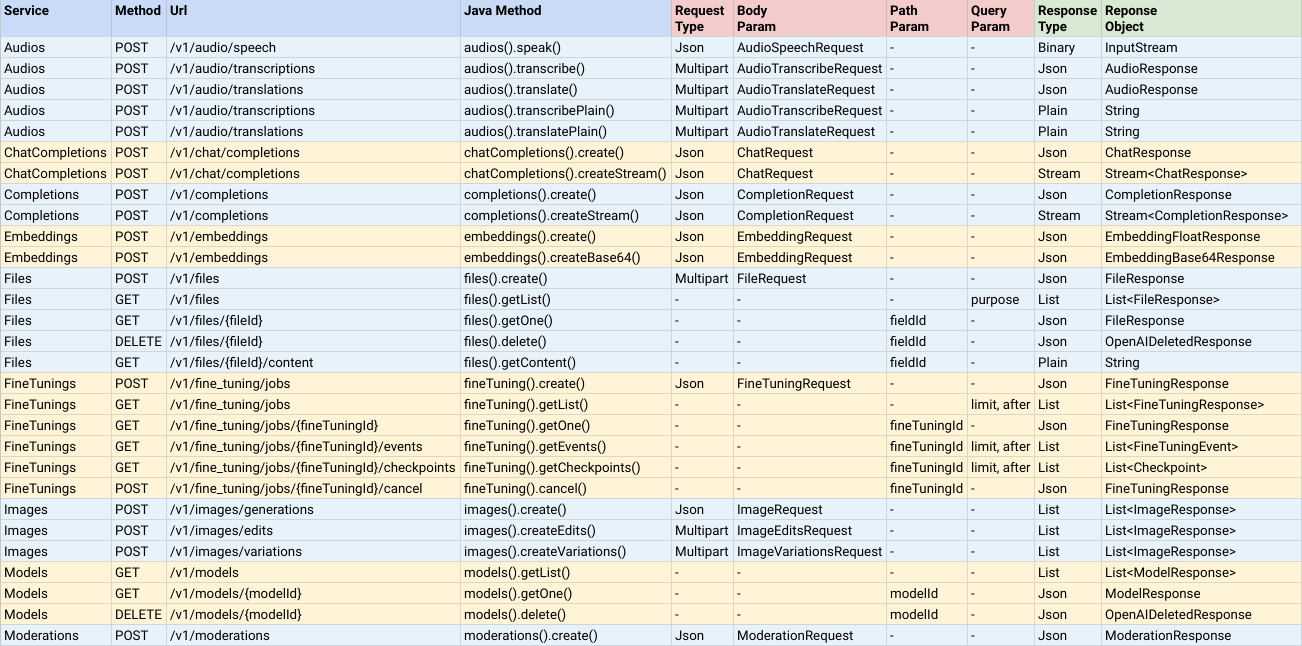
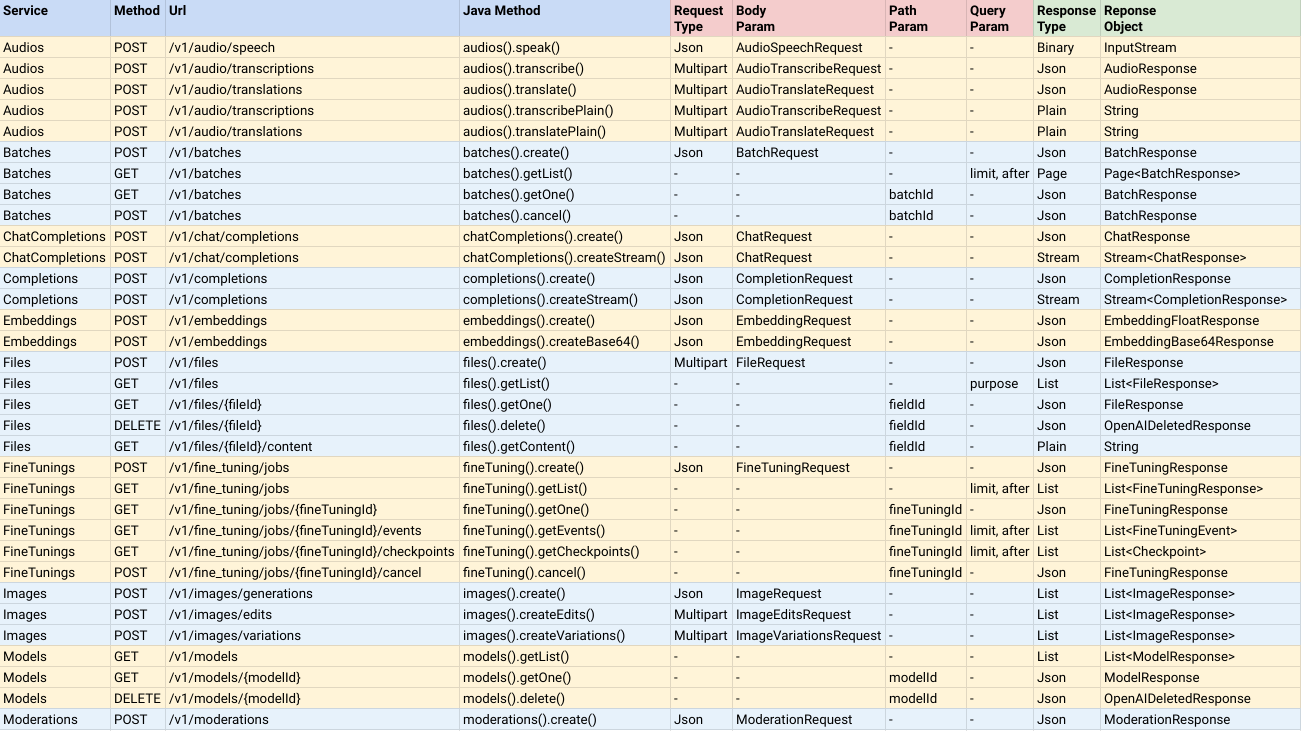
Update Readme

diff --git a/README.md b/README.md
@@ -9,9 +9,6 @@ A Java library to use the OpenAI Api in the simplest possible way.
 
 ### Table of Contents
 - [Description](#-description)
-- [Support for Additional OpenAI Providers](#-support-for-additional-openai-providers)
-  - [Azure OpenAI](#azure-openai)
-  - [Anyscale](#anyscale)
 - [Supported Services](#-supported-services)
 - [Installation](#-installation)
 - [Usage](#-usage)
@@ -23,57 +20,37 @@ A Java library to use the OpenAI Api in the simplest possible way.
     - [Chat Completion Service (streaming mode)](#chat-completion-service-streaming-mode)
     - [Chat Completion Service with Functions](#chat-completion-service-with-functions)
     - [Chat Completion Service with Vision](#chat-completion-service-with-vision)
+- [Support for Additional OpenAI Providers](#-support-for-additional-openai-providers)
+  - [Azure OpenAI](#azure-openai)
+  - [Anyscale](#anyscale)
 - [Run Examples](#-run-examples)
 - [Contributing](#-contributing)
 - [License](#-license)
+- [Show Us Your Love](#-show-us-your-love)
 
 
 ## 💡 Description
-Simple-OpenAI is a Java http client library for sending requests to and receiving responses from the [OpenAI API](https://platform.openai.com/docs/api-reference). It exposes a consistent interface across all the services, yet as simple as you can find in other languages like Python or NodeJs. It's a _community-maintained_ library.
+Simple-OpenAI is a Java http client library for sending requests to and receiving responses from the [OpenAI API](https://platform.openai.com/docs/api-reference). It exposes a consistent interface across all the services, yet as simple as you can find in other languages like Python or NodeJs. It's an unofficial library.
 
 Simple-OpenAI uses the [CleverClient](https://github.com/sashirestela/cleverclient) library for http communication, [Jackson](https://github.com/FasterXML/jackson) for Json parsing, and [Lombok](https://projectlombok.org/) to minimize boilerplate code, among others libraries.
 
 
-## ✴ Support for Additional OpenAI Providers
-Simple-OpenAI can be used with additional providers that are compatible with the OpenAI API. At this moment, there is support for the following additional providers:
-
-### Azure OpenAI
-[Azure OpenIA](https://learn.microsoft.com/en-us/azure/ai-services/openai/reference) is supported by Simple-OpenAI. We can use the class `SimpleOpenAIAzure`, which extends the class `BaseSimpleOpenAI`, to start using this provider. 
-```java
-var openai = SimpleOpenAIAzure.builder()
-    .apiKey(System.getenv("AZURE_OPENAI_API_KEY"))
-    .baseUrl(System.getenv("AZURE_OPENAI_BASE_URL"))   // Including resourceName and deploymentId
-    .apiVersion(System.getenv("AZURE_OPENAI_API_VERSION"))
-    //.httpClient(customHttpClient)   Optionally you could pass a custom HttpClient
-    .build();
-```
-Currently we are supporting the `openai.chatCompletionService()` service only.
-
-### Anyscale
-[Anyscale](https://www.anyscale.com/endpoints) is suported by Simple-OpenAI. We can use the class `SimpleOpenAIAnyscale`, which extends the class `BaseSimpleOpenAI`, to start using this provider.
-```java
-var openai = SimpleOpenAIAnyscale.builder()
-    .apiKey(System.getenv("ANYSCALE_API_KEY"))
-    //.baseUrl(customUrl)             Optionally you could pass a custom baseUrl
-    //.httpClient(customHttpClient)   Optionally you could pass a custom HttpClient
-    .build();
-```
-Currently we are supporting the `openai.chatCompletionService()` service only. It was tested with the model _Mistral_.
-
-
 ## ✅ Supported Services
+Simple-OpenAI seeks to stay up to date with the most recent changes in OpenAI. Currently, it supports all existing features until [April 16th, 2024](https://platform.openai.com/docs/changelog/apr-16th-2024) and will continue to update with future changes.
+
 Full support for all of the OpenAI services:
 
-* Text to speech (as part of Audio)
-* Speech to text (as part of Audio)
-* Text generation (as part of Chat)
-* Function calling (as part of Chat)
-* Image to text (as part of Chat)
-* Text to image (as part of Image)
-* Embeddings
-* Fine tuning
-* Assistants API (Beta)
-* Assistant Stream Events (Beta) 📣
+* Audio (Speech, Transcription, Translation)
+* Batch (Batches of Chat Completion)
+* Chat Completion (Text Generation, Streaming, Function Calling, Vision)
+* Completion (Legacy Text Generation)
+* Embedding  (Vectoring Text)
+* Files (Upload Files)
+* Fine Tuning (Customize Models)
+* Image (Generate, Edit, Variation)
+* Models (List)
+* Moderation (Check Harmful Text)
+* Assistants Beta (Assistants, Threads, Runs, Steps, Streaming)
 
 ![OpenAI Services](media/openai_services.png)
 
@@ -111,11 +88,12 @@ var openai = SimpleOpenAI.builder()
     .apiKey(System.getenv("OPENAI_API_KEY"))
     .build();
 ```
-Optionally you could pass your _OpenAI Organization Id_ ([See here](https://platform.openai.com/account/org-settings) for more details) in case you have multiple organizations and you want to identify usage by orgazanization. In the the following example we are getting the Organization Id from an environment variable called ```OPENAI_ORGANIZATION_ID``` which we have created to keep it:
+Optionally you could pass your _OpenAI Organization Id_ in case you have multiple organizations and you want to identify usage by organization and/or you could pass your _OpenAI Project Id_ in case you want to provides access to a single project. In the following example we are using environment variable for those Ids:
 ```java
 var openai = SimpleOpenAI.builder()
     .apiKey(System.getenv("OPENAI_API_KEY"))
     .organizationId(System.getenv("OPENAI_ORGANIZATION_ID"))
+    .projectId(System.getenv("OPENAI_PROJECT_ID"))
     .build();
 ```
 Optionally, as well, you could provide a custom Java HttpClient object if you want to have more options for the http connection, such as executors, proxy, timeout, cookies, etc. ([See here](https://docs.oracle.com/en/java/javase/11/docs/api/java.net.http/java/net/http/HttpClient.Builder.html) for more details). In the following example we are providing a custom HttpClient:
@@ -351,6 +329,38 @@ private static ImageUrl loadImageAsBase64(String imagePath) {
 }
 ```
 
+
+## ✴ Support for Additional OpenAI Providers
+Simple-OpenAI can be used with additional providers that are compatible with the OpenAI API. At this moment, there is support for the following additional providers:
+
+### Azure OpenAI
+[Azure OpenIA](https://learn.microsoft.com/en-us/azure/ai-services/openai/reference) is supported by Simple-OpenAI. We can use the class `SimpleOpenAIAzure`, which extends the class `BaseSimpleOpenAI`, to start using this provider. 
+```java
+var openai = SimpleOpenAIAzure.builder()
+    .apiKey(System.getenv("AZURE_OPENAI_API_KEY"))
+    .baseUrl(System.getenv("AZURE_OPENAI_BASE_URL"))   // Including resourceName and deploymentId
+    .apiVersion(System.getenv("AZURE_OPENAI_API_VERSION"))
+    //.httpClient(customHttpClient)   Optionally you could pass a custom HttpClient
+    .build();
+```
+Currently we are supporting the following services only:
+- chatCompletionService (streaming mode is not supported)
+- fileService
+- assistantService
+- threadService (streaming mode is not supported)
+
+### Anyscale
+[Anyscale](https://www.anyscale.com/endpoints) is suported by Simple-OpenAI. We can use the class `SimpleOpenAIAnyscale`, which extends the class `BaseSimpleOpenAI`, to start using this provider.
+```java
+var openai = SimpleOpenAIAnyscale.builder()
+    .apiKey(System.getenv("ANYSCALE_API_KEY"))
+    //.baseUrl(customUrl)             Optionally you could pass a custom baseUrl
+    //.httpClient(customHttpClient)   Optionally you could pass a custom HttpClient
+    .build();
+```
+Currently we are supporting the `chatCompletionService` service only. It was tested with the _Mistral_ model.
+
+
 ## ✳ Run Examples
 Examples for each OpenAI service have been created in the folder [demo](https://github.com/sashirestela/simple-openai/tree/main/src/demo/java/io/github/sashirestela/openai/demo) and you can follow the next steps to execute them:
 * Clone this repository:
@@ -394,15 +404,6 @@ Examples for each OpenAI service have been created in the folder [demo](https://
   multiple models in the same region they will share the same API key (actually there are two keys
   per region to support alternate key rotation).
 
-  At the moment the simple-openai support for Azure OpenAI includes the following OpenAI endpoints:
-  - /chat/completions (including tool calls)
-  - /chat/completions (including images)
-  - /files
-  - /assistants (beta)
-  - /threads (beta)
- 
-   In addition, streaming mode is not supported at the moment.
-
 * Grant execution permission to the script file:
   ```
   chmod +x rundemo.sh
@@ -415,6 +416,7 @@ Examples for each OpenAI service have been created in the folder [demo](https://
 
   * ```<demo>``` Is mandatory and must be one of the values:
     * audio
+    * batch
     * chat
     * chatAnyscale
     * chatAzure
@@ -432,9 +434,17 @@ Examples for each OpenAI service have been created in the folder [demo](https://
   * For example, to run the chat demo with a log file: ```./rundemo.sh chat debug```
 
 ## 💼 Contributing
-Kindly read our [Contributing guide](CONTRIBUTING.md) to learn and understand how to contrinute to this project.
+Kindly read our [Contributing guide](CONTRIBUTING.md) to learn and understand how to contribute to this project.
 
 ## 📄 License
 Simple-OpenAI is licensed under the MIT License. See the
 [LICENSE](https://github.com/sashirestela/simple-openai/blob/main/LICENSE) file
 for more information.
+
+
+## ❤ Show Us Your Love
+Thanks for using **simple-openai**. If you find this project valuable there are a few ways you can show us your love:
+
+* Letting your friends know about this project 🗣📢.
+* Writing a brief review on your social networks ✍🌐.
+* Giving us a star on Github ⭐.
